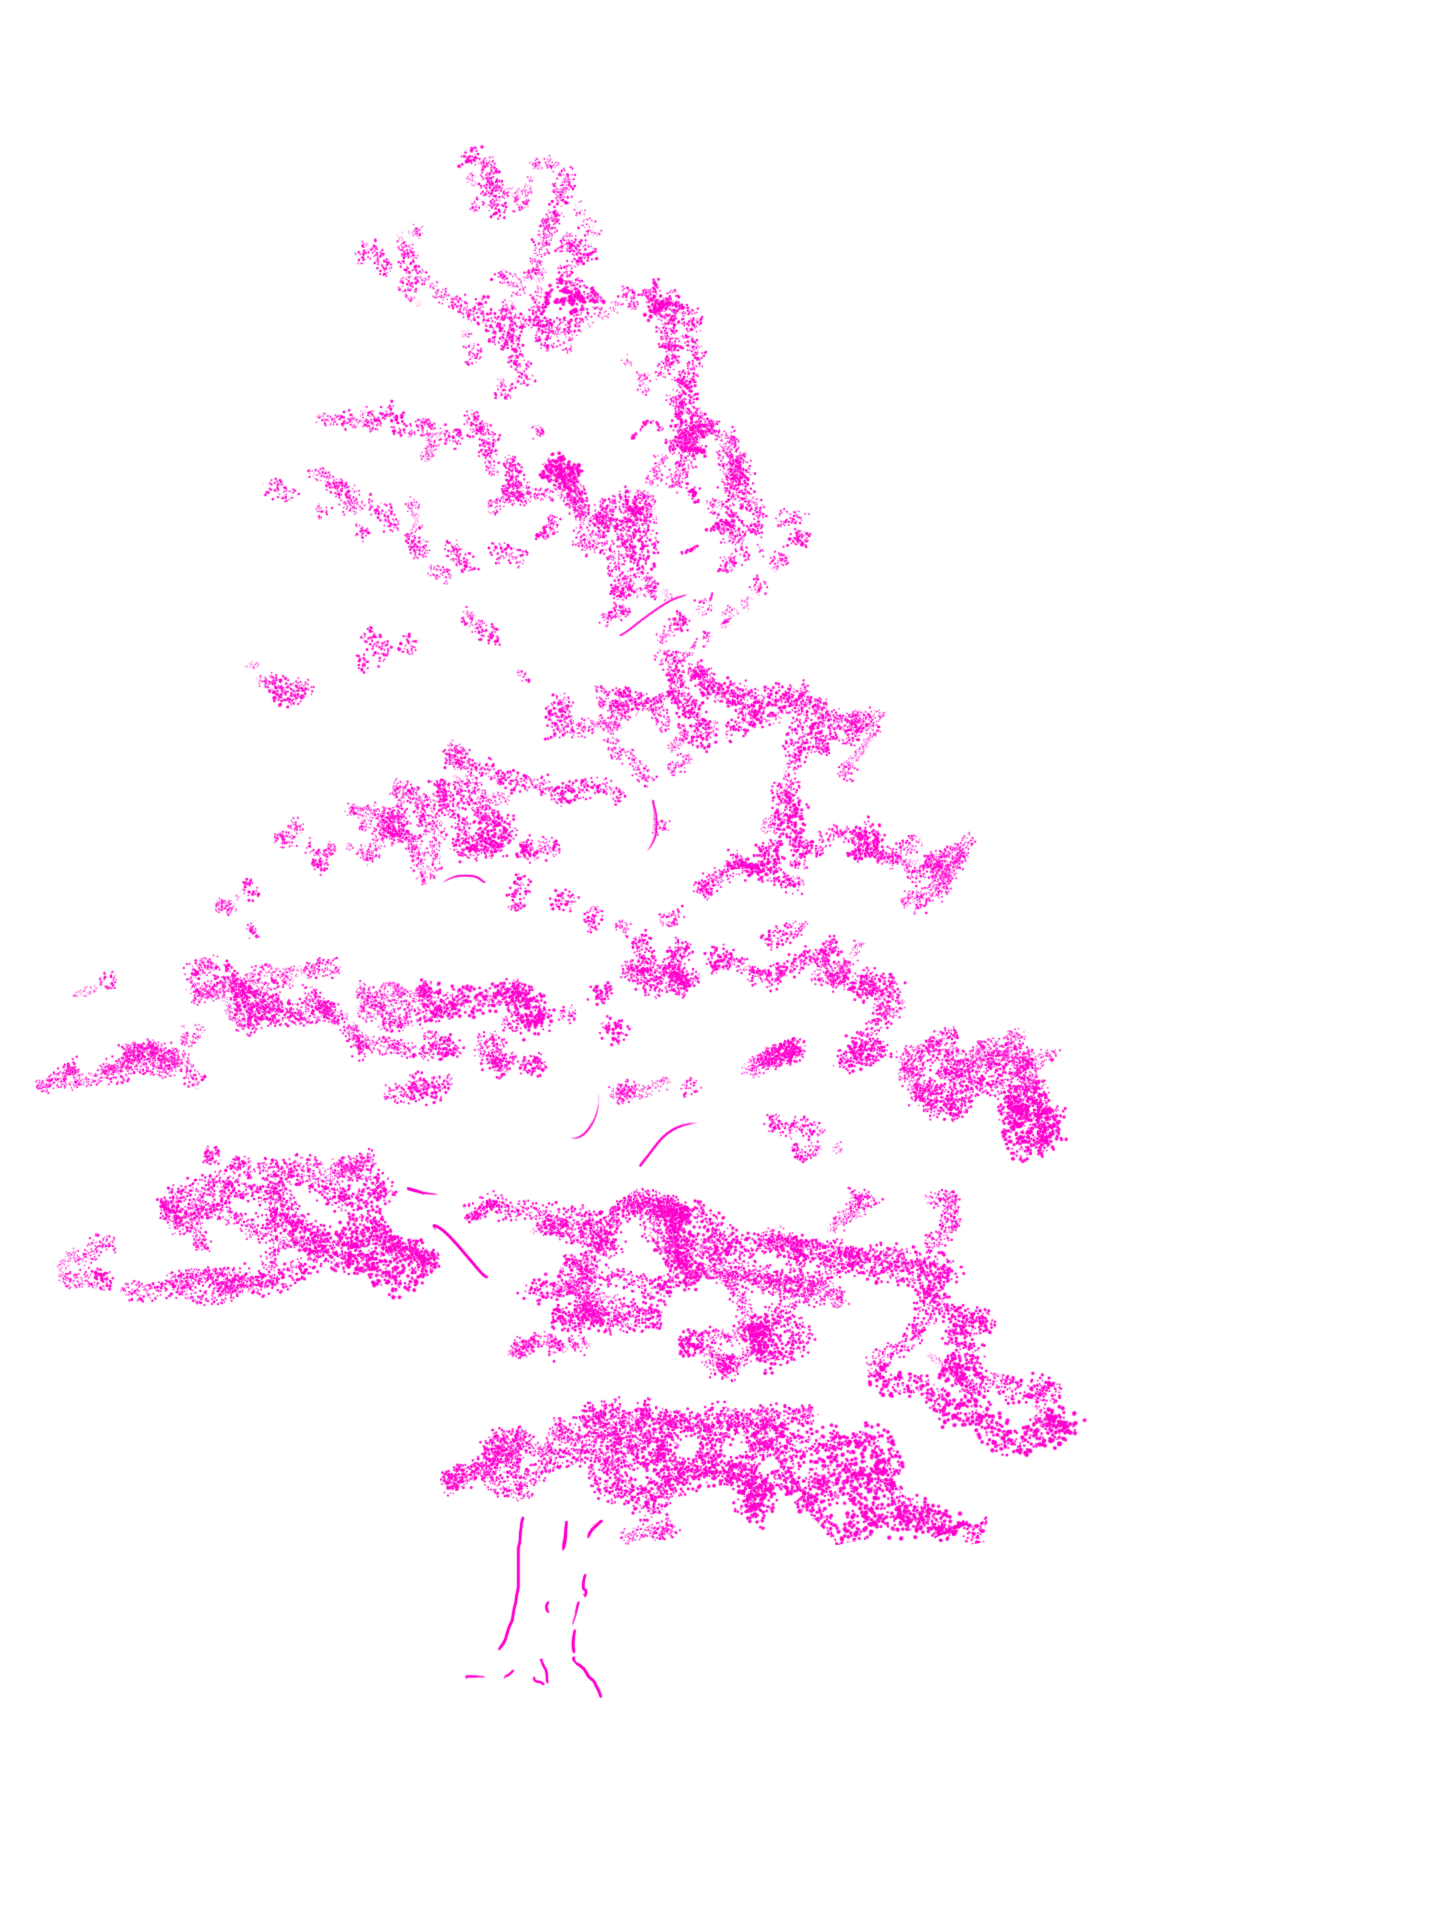
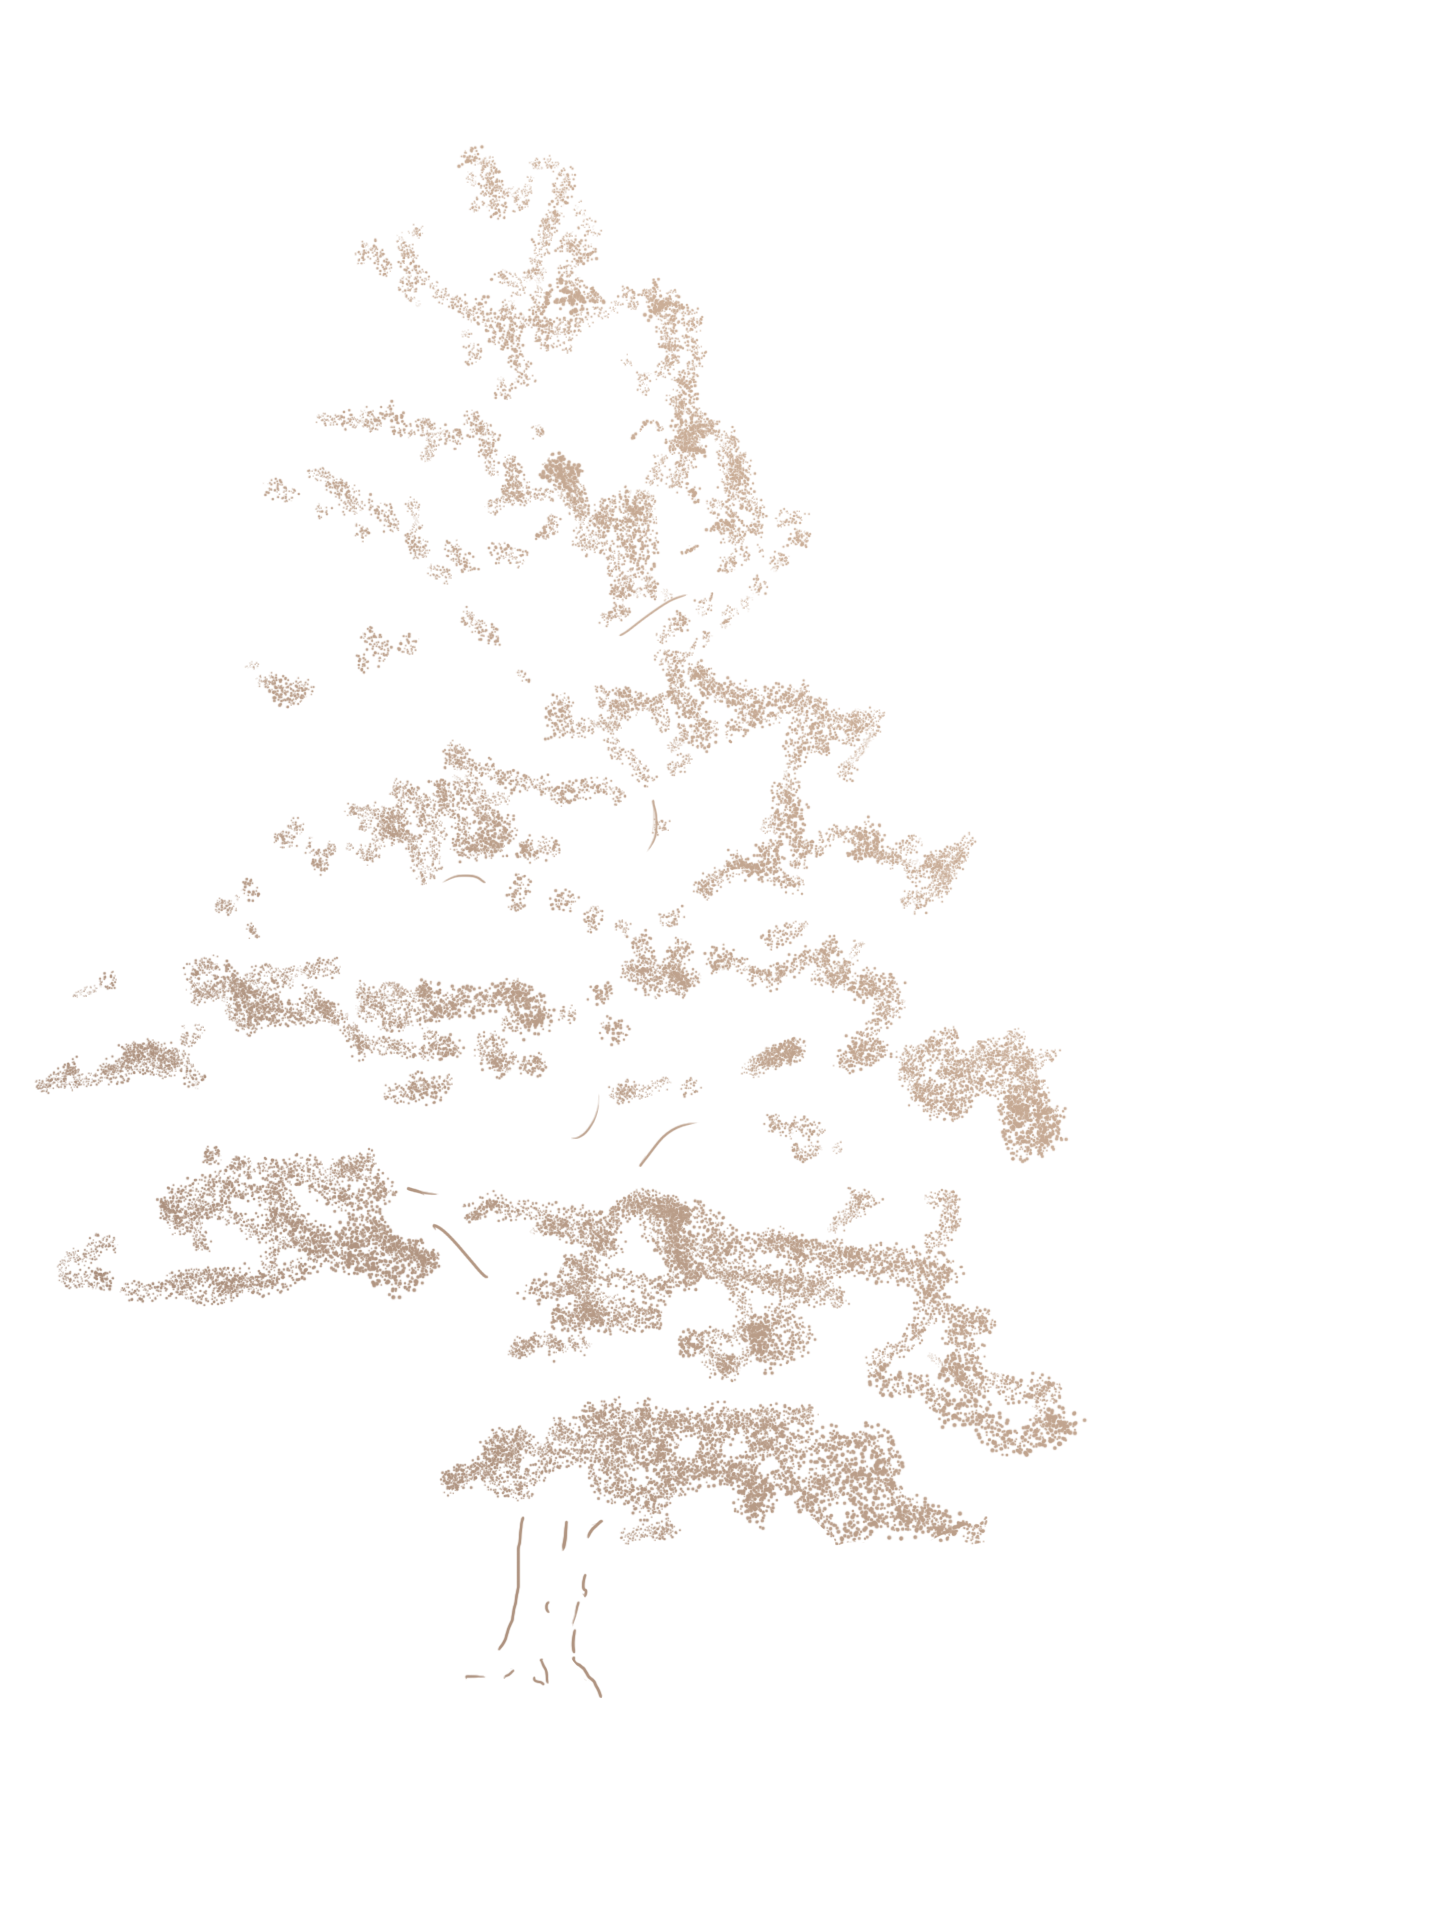
added more trees and shit

diff --git a/digitext/scrolly/index.html b/digitext/scrolly/index.html
@@ -19,11 +19,27 @@
             <img class="face2" src="./src/window_face_2.png">
             <img class="face3" src="./src/window_face_3.png">
         </section>
-        <img class="tree" id="tree001" src="./src/tree_2.png">
-        <img class="tree" id="tree002" src="./src/tree1.png">
+        <img class="tree" id="tree001" src="./src/tree2b.png">
+        <img class="tree" id="tree002" src="./src/tree1c.png">
+        <img class="tree" id="tree003" src="./src/tree1d.png">
+        <img class="tree" id="tree004" src="./src/tree3a.png">
+        <img class="tree" id="tree005" src="./src/tree4b.png">
+        <img class="tree" id="tree006" src="./src/tree1a.png">
+        <img class="tree" id="tree007" src="./src/tree4a.png">
+        <img class="tree" id="tree008" src="./src/tree2a.png">
+        <img class="tree" id="tree009" src="./src/tree2b.png">
+        <img class="tree" id="tree010" src="./src/tree1c.png">
+        <img class="tree" id="tree011" src="./src/tree1d.png">
+        <img class="tree" id="tree012" src="./src/tree3a.png">
+        <img class="tree" id="tree013" src="./src/tree2b.png">
+        <img class="tree" id="tree014" src="./src/tree1a.png">
+        <img class="tree" id="tree015" src="./src/tree4a.png">
+        <img class="tree" id="tree016" src="./src/tree2a.png">
+
+        <img id="factory" src="./src/factory.png">
+
         <img class="e-pole" id="pole001" src="./src/electricity_pole_1.png">
         <img class="text" id="text001" src="./src/text_1.png">
-        <img class="tree" id="tree003" src="./src/tree2.png">
         <img class="e-pole" id="pole002" src="./src/electricity_pole_1.png">
     </section>
 
@@ -33,15 +49,6 @@
 
     <script src="https://cdnjs.cloudflare.com/ajax/libs/gsap/3.7.1/gsap.min.js"></script>
     <script src="https://cdnjs.cloudflare.com/ajax/libs/gsap/3.7.1/ScrollTrigger.min.js"></script>
-
-
-    <script src="https://cdnjs.cloudflare.com/ajax/libs/ScrollMagic/2.0.8/ScrollMagic.min.js" crossorigin="anonymous"></script>
-    <script src="https://cdnjs.cloudflare.com/ajax/libs/ScrollMagic/2.0.8/plugins/debug.addIndicators.js" crossorigin="anonymous"></script>
-    <script src="https://cdnjs.cloudflare.com/ajax/libs/ScrollMagic/2.0.8/plugins/animation.gsap.min.js" crossorigin="anonymous"></script>
-    <script src="https://cdnjs.cloudflare.com/ajax/libs/gsap/2.1.2/TweenLite.min.js" crossorigin="anonymous"></script>
-    <script src="https://cdnjs.cloudflare.com/ajax/libs/gsap/2.1.2/TimelineLite.min.js" crossorigin="anonymous"></script>
-    <script src="https://cdnjs.cloudflare.com/ajax/libs/gsap/2.1.2/plugins/CSSPlugin.min.js" crossorigin="anonymous"></script>
-    <script src="https://cdnjs.cloudflare.com/ajax/libs/gsap/2.1.2/plugins/BezierPlugin.min.js" crossorigin="anonymous"></script>
     <script src="./js/main.js"></script>
 </body>
 </html>

diff --git a/digitext/scrolly/js/main.js b/digitext/scrolly/js/main.js
@@ -13,42 +13,62 @@ tl.addLabel('tree001')
     // 0
     .to('#pole001', {duration: 10, x:-2*window.innerWidth, ease: 'none'}, 0)
     .fromTo('.face1', {opacity: 0}, {duration: 1, opacity: 0.3}, 0)
-    .fromTo('.animation', {background: 'linear-gradient(#000000, #313131)'}, {duration: 8, background: 'linear-gradient(#000000, #8b8d8d)'}, 0)
+    .fromTo('.animation', {background: 'linear-gradient(#000000, #313131)'}, {duration: 8, background: 'linear-gradient(#000000, #73858b)'}, 0)
 
     // 0.5
 
 
     // 1
-    .to('#tree001', {duration: 5, x:-2*window.innerWidth, ease: 'none'}, 1.5)
+    .to('#tree002', {duration: 3.5, x:-2*window.innerWidth, ease: 'none'}, 1.5)
 
     //1.5
-    .to('#tree002', {duration: 6, x:-2*window.innerWidth, ease: 'none'}, 2)
 
     // 2
     .fromTo('.face1', {opacity: 0.3}, {duration: 1, opacity: 0.5}, 2)
     .fromTo('.face2', {opacity: 0.2}, {duration: 1, opacity: 0.4}, 2)
 
+    .to('#tree009', {duration: 2, x:-2*window.innerWidth, ease: 'none'}, 2.1)
+    .to('#tree006', {duration: 1, x:-2*window.innerWidth, ease: 'none'}, 2.2)
+    .to('#tree007', {duration: 1.7, x:-2*window.innerWidth, ease: 'none'}, 2.4)
+    .to('#tree008', {duration: 2.4, x:-2*window.innerWidth, ease: 'none'}, 2.4)
 
     //2.5
+    .to('#tree001', {duration: 1.5, x:-2*window.innerWidth, ease: 'none'}, 2.5)
+
+    .to('#tree004', {duration: 1, x:-2*window.innerWidth, ease: 'none'}, 2.8)
+
+    .to('#tree010', {duration: 2.5, x:-2*window.innerWidth, ease: 'none'}, 2.9)
+    .to('#tree005', {duration: 3, x:-2*window.innerWidth, ease: 'none'}, 2.9)
+
 
     // 3
     .fromTo('#text001', {x: 0}, {duration: 8, x: -2*window.innerWidth, ease: 'none'}, 3)
+    .to('#tree003', {duration: 1.5, x:-2*window.innerWidth, ease: 'none'}, 3)
     .fromTo('.face2', {opacity: 0.4}, {duration: 1, opacity: 0.8}, 3)
     .fromTo('.face3', {opacity: 0.2}, {duration: 1, opacity: 0.8}, 3)
 
-    // 4
+    //3.5
+    .to('#tree011', {duration: 1.5, x:-2*window.innerWidth, ease: 'none'}, 3.5)
 
+    // 4
     .fromTo('.face1', {opacity: 0.5}, {duration: 1, opacity: 0.7}, 4)
     .fromTo('.face3', {opacity: 0.8}, {duration: 1, opacity: 0.4}, 4)
+    .to('#tree013', {duration: 1.2, x:-2*window.innerWidth, ease: 'none'}, 4)
+
+    //4.5
+    .to('#tree012', {duration: 2.5, x:-2*window.innerWidth, ease: 'none'}, 4.5)
 
     // 5
     .to('#pole002', {duration: 10, x:-2*window.innerWidth, ease: 'none'}, 5)
-    
-    // 5.5
-    
+
+    // 6
+    .to('#tree014', {duration: 1.2, x:-2*window.innerWidth, ease: 'none'}, 6)
+
+    // 6.5
+    .to('#tree015', {duration: 2.2, x:-2*window.innerWidth, ease: 'none'}, 6.5)
+    .to('#factory', {duration: 13, x:-2*window.innerWidth, ease: 'none'}, 6.5)
 
     // 7
-    .to('#tree003', {duration: 2, x:-2*window.innerWidth, ease: 'none'}, 7)
 
 
     .addLabel('end');    

diff --git a/digitext/scrolly/css/main.css b/digitext/scrolly/css/main.css
@@ -10,7 +10,7 @@ header, footer {
     justify-content: center;
     align-items: center;
     font-family: "Monteserrat", sans-serif;
-    color: #ccb984;
+    color: #73858b;
     background-color: black;
 }
 
@@ -46,14 +46,81 @@ header img {
 }
 
 #tree003 {
+    top: 45%;
+    height: 55vh;
+}
+
+#tree004 {
     top: 35%;
 }
+
+#tree005 {
+    top: 70%;
+    height: 30vh;
+}
+
+#tree006 {
+    top: 25%;
+    height: 90vh;
+}
+
+#tree007 {
+    top: 35%;
+}
+
+#tree008 {
+    top: 35%;
+}
+
+#tree009 {
+    top: 40%;
+    
+}
+
+#tree010 {
+    top: 70%;
+    height: 30vh;
+}
+
+#tree011 {
+    top: 35%;
+    height: 65vh;
+}
+
+#tree012 {
+    top: 55%;
+}
+
+#tree013 {
+    top: 30%;
+    height: 90vh;
+}
+
+#tree014 {
+    top: 25%;
+    height: 90vh;
+}
+
+#tree015 {
+    top: 55%;
+}
+
+#tree016 {
+    top: 35%;
+}
+
 
 .e-pole {
     opacity: 0.65;
     top: 60vh;
     left: 100%;
     height: 40vh;
+}
+
+#factory {
+    top: 65vh;
+    left: 100%;
+    height: 30vh;
 }
 
 .train-background {
